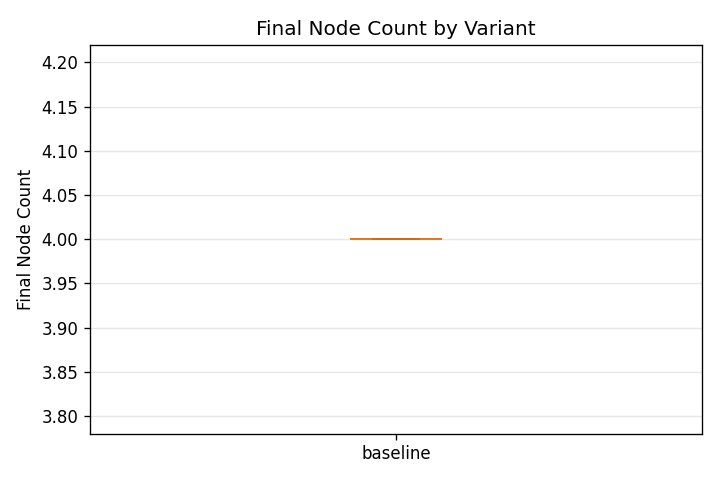
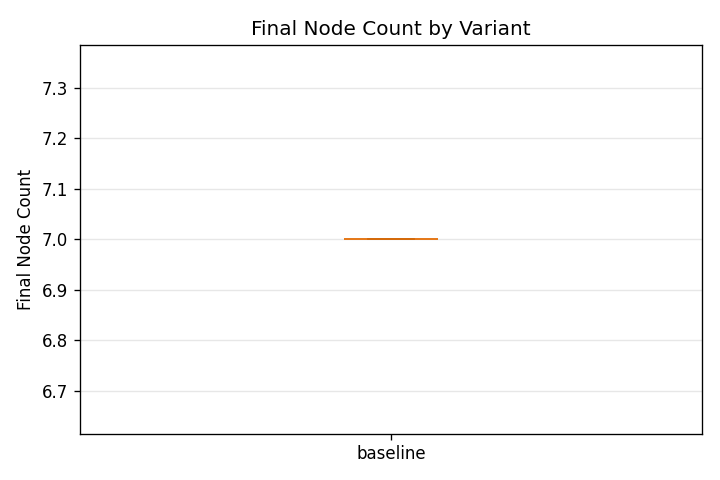
results: fresh benchmark-control with scale-out phase (40min, 4 phases)

Changed region(s): [[0.0611, 0.0938, 0.1528, 0.9062], [0.3361, 0.0312, 0.7639, 0.0938], [0.4889, 0.9062, 0.6111, 0.9688]]

diff --git a/results/benchmark-control/benchmark-control/report.md b/results/benchmark-control/benchmark-control/report.md
@@ -9,24 +9,24 @@ Runs per variant: 10
 
 | Metric | Mean | Median | p90 | p99 |
 |--------|------|--------|-----|-----|
-| Cumulative Cost ($) | 109.5984 | 109.5984 | 109.5984 | 109.5984 |
-| Cumulative vCPU-Hours | 1332.2642 | 1332.2642 | 1332.2642 | 1332.2642 |
-| Cumulative GiB-Hours | 7012.0417 | 7012.0417 | 7012.0417 | 7012.0417 |
-| Time-Weighted Node Count | 1028430.0000 | 1028430.0000 | 1028430.0000 | 1028430.0000 |
-| Time to Stable (s) | 2160.0000 | 2160.0000 | 2160.0000 | 2160.0000 |
-| Pending Pod-Seconds | 720.0000 | 720.0000 | 720.0000 | 720.0000 |
+| Cumulative Cost ($) | 28.6776 | 28.6776 | 28.6776 | 28.6776 |
+| Cumulative vCPU-Hours | 341.1292 | 341.1292 | 341.1292 | 341.1292 |
+| Cumulative GiB-Hours | 1795.4167 | 1795.4167 | 1795.4167 | 1795.4167 |
+| Time-Weighted Node Count | 270435.0000 | 270435.0000 | 270435.0000 | 270435.0000 |
+| Time to Stable (s) | 2400.0000 | 2400.0000 | 2400.0000 | 2400.0000 |
+| Pending Pod-Seconds | 0.0000 | 0.0000 | 0.0000 | 0.0000 |
 | Disruption Count | 0.0000 | 0.0000 | 0.0000 | 0.0000 |
 | Disruption-Seconds | 0.0000 | 0.0000 | 0.0000 | 0.0000 |
 | Peak Node Count | 186.0000 | 186.0000 | 186.0000 | 186.0000 |
-| Peak Cost Rate ($/hr) | 71.4240 | 71.4240 | 71.4240 | 71.4240 |
+| Peak Cost Rate ($/hr) | 71.2320 | 71.2320 | 71.2320 | 71.2320 |
 
 ### End-State Metrics (Diagnostic)
 
 | Metric | Mean | Median | p90 | p99 |
 |--------|------|--------|-----|-----|
-| Cost Rate ($/hr) | 1.5360 | 1.5360 | 1.5360 | 1.5360 |
-| Node Count | 4.0000 | 4.0000 | 4.0000 | 4.0000 |
+| Cost Rate ($/hr) | 2.6880 | 2.6880 | 2.6880 | 2.6880 |
+| Node Count | 7.0000 | 7.0000 | 7.0000 | 7.0000 |
 | Running Pods | 20.0000 | 20.0000 | 20.0000 | 20.0000 |
 | Pending Pods | 0.0000 | 0.0000 | 0.0000 | 0.0000 |
-| Events Processed | 1000000.0000 | 1000000.0000 | 1000000.0000 | 1000000.0000 |
-| Final Time | 204950000000004.0000 | 204950000000004.0000 | 204950000000004.0000 | 204950000000004.0000 |
+| Events Processed | 5628.0000 | 5628.0000 | 5628.0000 | 5628.0000 |
+| Final Time | 2400000000000.0000 | 2400000000000.0000 | 2400000000000.0000 | 2400000000000.0000 |
